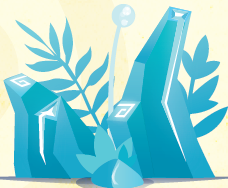
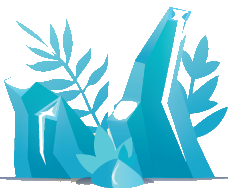
fixed mouse not pausing over image, can now pause with keys

diff --git a/js/index.js b/js/index.js
@@ -5,8 +5,13 @@ var player;
 var platforms;
 var cursors;
 
+
+var continue_button;
 var buttonPause;
-var buttonContinue;
+var retry_button;
+var exit_button;
+
+var pause_p;
 
 var stars;
 var score = 0;
@@ -27,11 +32,15 @@ var isJumping = false;
 var Juego = {
 
     preload : function() {
-        game.load.image('sky', 'assets/sky.png');
+        game.load.image('sky', 'assets/la_leyenda/nivel1/fondo_3.png');
         game.load.image('ground', 'assets/piso0.png');
         game.load.image('star', 'assets/star.png');
         game.load.image('pause_button', 'assets/la_leyenda/menu/pause_button.png');
+
         game.load.image('continue_button', 'assets/la_leyenda/menu/continue_button.png');
+        game.load.image('exit_button', 'assets/la_leyenda/menu/exit_button.png');
+        game.load.image('retry_button', 'assets/la_leyenda/menu/retry_button.png');
+
         //game.load.spritesheet('dude', 'assets/dude.png', 32, 48);
         //game.load.spritesheet('dude', ['assets/main/main1.png'], 84, 99);
         //game.load.atlas('dude', 'assets/main/main0.png', null, null);
@@ -45,7 +54,8 @@ var Juego = {
         game.world.setBounds(0, 0, 5000, 500);
 
         fondoJuego = game.add.tileSprite(0, 0, game.world.width, game.world.height, 'sky');
-        fondoJuego.scale.setTo(4,4);
+        fondoJuego.fixedToCamera = true;
+        //fondoJuego.scale.setTo(1.5,1.3);
 
         platforms = game.add.group();
         platforms.enableBody = true;
@@ -115,14 +125,40 @@ var Juego = {
         buttonPause.scale.setTo(0.5, 0.5);
         buttonPause.fixedToCamera = true;
 
+        pause_p = game.input.keyboard.addKey(Phaser.Keyboard.P);
+        
+        game.input.keyboard.onUpCallback = function (e) {
+            if(e.keyCode == Phaser.Keyboard.P || e.keyCode == Phaser.Keyboard.ESC){
+                if(!game.paused){
+                    Juego.pause();
+                }else{
+                    unpause();
+                }
+            }
+        };
 
-        buttonContinue = game.add.button(game.width/2, game.height/2 , 'continue_button' , null , this);
-        buttonContinue.anchor.setTo(0.5);
-        buttonContinue.fixedToCamera = true;
-        buttonContinue.visible = false;
+        continue_button = game.add.button(game.width/2, game.height/2 - game.height/7, 'continue_button' , null , this);
+        continue_button.anchor.setTo(0.5);
+        continue_button.fixedToCamera = true;
+        continue_button.visible = false;
+
+        retry_button = game.add.button(game.width/2 + game.width/10 , game.height/2 + game.height/20, 'retry_button' , null , this);
+        retry_button.anchor.setTo(0.5);
+        retry_button.scale.setTo(0.7, 0.7);
+        retry_button.fixedToCamera = true;
+        retry_button.visible = false;
+
+        exit_button = game.add.button(game.width/2 - game.width/10, game.height/2 + game.height/20  , 'exit_button' , null , this);
+        exit_button.anchor.setTo(0.5);
+        exit_button.scale.setTo(0.7, 0.7);
+        exit_button.fixedToCamera = true;
+        exit_button.visible = false;
+
+        retry_button.events.onInputDown.add(listener, this);
     },
 
     update: function() {
+        fondoJuego.tilePosition.x -= 0.05;
         game.camera.follow(player);
         game.physics.arcade.collide(player, platforms);
         game.physics.arcade.collide(stars, platforms);
@@ -130,7 +166,6 @@ var Juego = {
         game.physics.arcade.overlap(player, stars, collectStar, null, this);
 
         player.body.velocity.x = 0;
-        fondoJuego.tilePosition.x +=1;
 
         if (cursors.left.isDown){   
             isRunning = true;
@@ -213,15 +248,34 @@ var Juego = {
     },
 
     pause : function(){
-        buttonContinue.visible = true;
-        game.input.onDown.add(unpause, self);
+        game.input.onDown.add(paused_buttons, self);
+        continue_button.visible = true;
+        retry_button.visible = true;
+        exit_button.visible = true;
         game.paused = true;
     }
 }
 
-function unpause(event){
-    console.log(event);
-    buttonContinue.visible = false;
+function paused_buttons(event){
+    if(clicked(event, continue_button)){
+        unpause();
+    }
+}
+
+function clicked(event, button){
+    var x1 = button.cameraOffset.x - button.width/2;
+    var x2 = button.cameraOffset.x + button.width/2;
+    var y1 = button.cameraOffset.y - button.height/2;
+    var y2 = button.cameraOffset.y + button.height/2;
+    
+    console.log(event.x > x1 && event.x < x2 && event.y > y1 && event.y < y2);
+    return (event.x > x1 && event.x < x2 && event.y > y1 && event.y < y2 );
+}
+
+function unpause(){
+    continue_button.visible = false;
+    retry_button.visible = false;
+    exit_button.visible = false;
     game.paused = false;
 }
 
@@ -230,4 +284,8 @@ function collectStar (player, star) {
     score += 10;
     scoreText.text = 'Score: ' + score;
 
+}
+
+function listener () {
+    console.log("message");
 }
